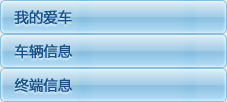
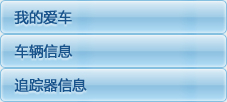
-- KJJ -- 1、终端信息图片修改成追踪器信息 -- 2、休眠中图片添加
git-svn-id: http://www.ichebao.net/svn/acb/trunk@549 fbfde4e3-4bc3-4d81-a63b-7b332075e0cf

Changed region(s): [[0.0617, 0.7647, 0.4009, 0.9412]]

diff --git a/apps/uweb/templates/index.html b/apps/uweb/templates/index.html
@@ -48,8 +48,8 @@
 							<div class="gray j_currentCar">{{car.alias}}</div>
 							<div class="gray">(离线)</div>
 						{% elif car.login == 2 %}
-							<a href="#" title="{{car.alias}}" class="carlogout"  keys_num="{{car.keys_num}}"  tid="{{car.tid}}" cLogin="{{car.login}}" actiontrack="no" >
-								<img src="../static/images/carout1.png" />
+							<a href="#" title="{{car.alias}}" class="carlogin"  keys_num="{{car.keys_num}}"  tid="{{car.tid}}" cLogin="{{car.login}}" actiontrack="no" >
+								<img src="../static/images/carwakeup.png" />
 							</a>
 							<div class="gray j_currentCar">{{car.alias}}</div>
 							<div class="gray">(休眠中)</div>

diff --git a/apps/uweb/static.d/static_bj/js/initialize.js b/apps/uweb/static.d/static_bj/js/initialize.js
@@ -412,7 +412,7 @@ window.dlf.fn_getCarData = function() {
 						obj_child2.removeClass('green blue').addClass('gray').html('(离线)');
 					} else if ( str_loginst == LOGINWAKEUP ) {	// 休眠中 todo 
 						obj_carA.removeClass('carlogout').addClass('carlogin');
-						obj_img.attr('src', BASEIMGURL + 'car1.png');
+						obj_img.attr('src', BASEIMGURL + 'carwakeup.png');
 						obj_child1.removeClass('gray green').addClass('blue');
 						obj_child2.removeClass('gray green').addClass('blue').html('(休眠中)');
 					} 
